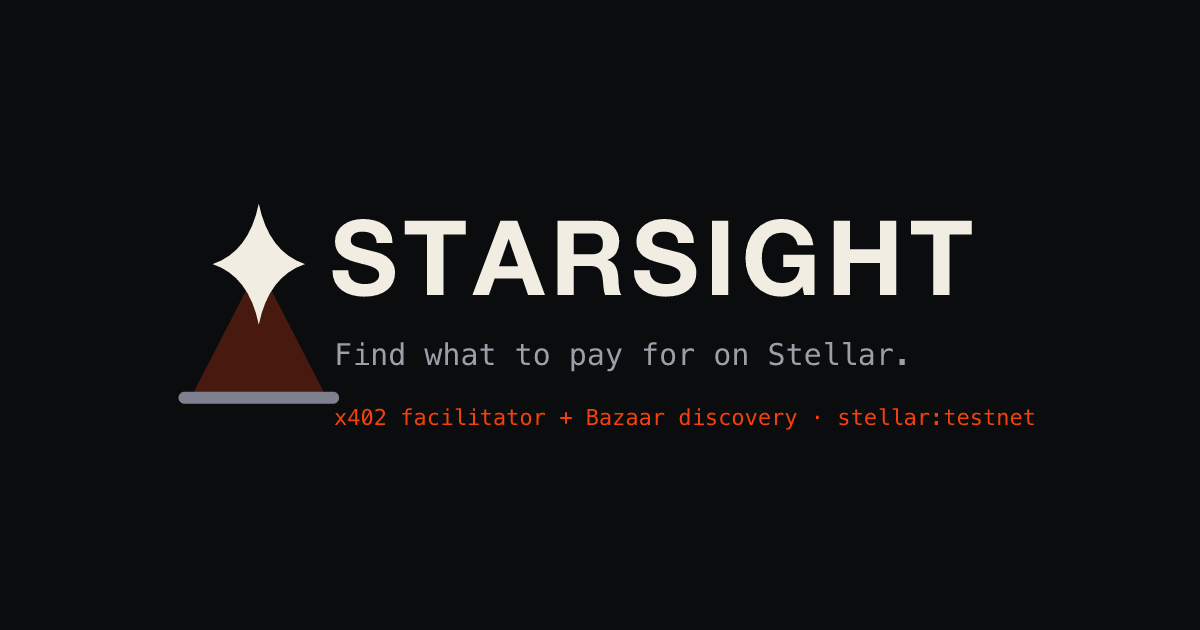
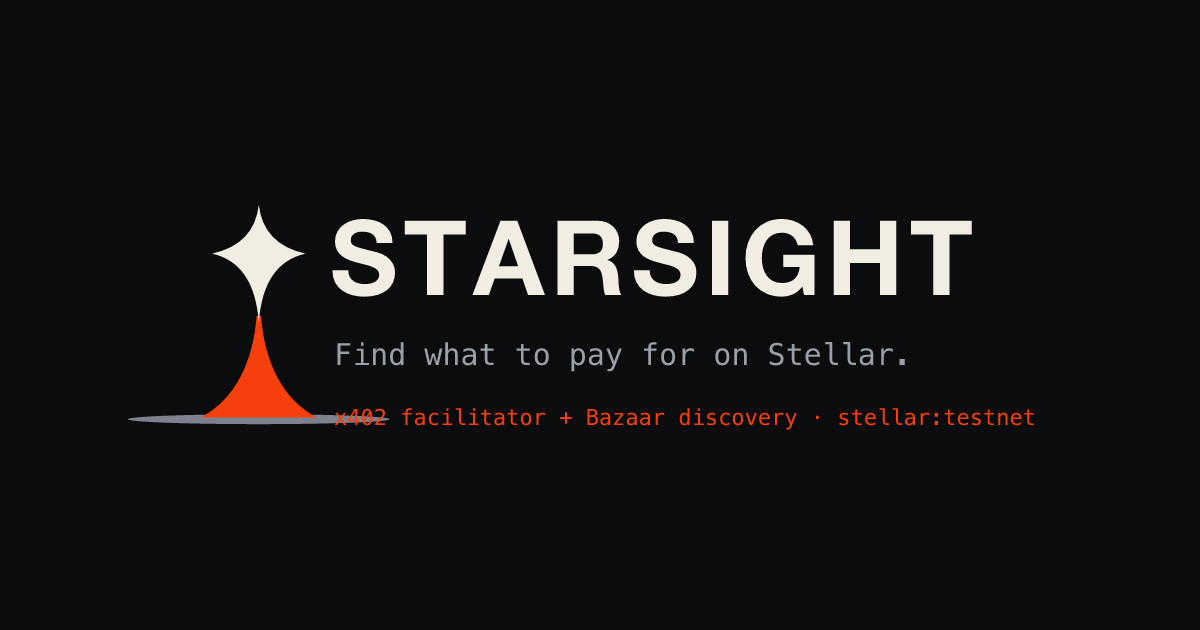
Redraw the mark faithfully to the chosen concept
The first attempt at this mark diverged from the design it was supposed to be
tracing, in four ways that together changed what it depicted. Corrected against
the reference:

  beam sides   straight  ->  concave, flaring like a bell
  beam fill    26%       ->  solid
  ground       a rail    ->  an ellipse of lit ground
  star         chunky    ->  tapered, lower point longer

The one that mattered is the waist. In the reference the star's lower point
narrows almost to nothing and the beam grows out of it, so the two read as a
single object — light leaving a star. Drawn as separate shapes stacked on top of
each other, which is what the first version did, it reads as a star sitting on a
traffic cone.

Three shapes, 396 bytes: the pool, the beam, the star, painted back to front.
Marks.tsx mirrors the same geometry inline and now carries a comment naming both
traps, since this is the second time the mark has been drawn and the concavity and
the waist are exactly what a redraw loses.

The favicon keeps its own reduced drawing, restated against the new star: at 16px
the ellipse is under a pixel tall and the beam collapses into the star, so the
star alone fills the canvas, in the accent rather than the cream because a tab
strip may be light or dark.

StarGlyph picks up the sharper concavity so the family reads, but stays vertically
symmetric where the mark's star is not — it sits on a text baseline beside
headings, and a long lower point would hang below it.
[…]

Changed region(s): [[0.1233, 0.3921, 0.3083, 0.6937]]

diff --git a/apps/web/src/components/Marks.tsx b/apps/web/src/components/Marks.tsx
@@ -2,35 +2,50 @@
  *  chrome never depends on an image file being present. */
 
 /**
- * The Starsight mark: a star high in the frame casting a cone of light down to
- * the ground it lights.
+ * The Starsight mark: a star casting a beam of light onto the ground it lights.
  *
- * Three shapes, in paint order — the beam first so the star sits on top of it,
- * then the star, then the rail it reaches. The beam is a flat shape at low
- * opacity rather than a gradient: a gradient needs `<defs>`, and an id in a
- * `<defs>` collides the moment two of these render on one page.
+ * Three shapes, painted back to front — the pool of light, the beam, then the
+ * star on top. Two details carry the whole thing and are easy to lose when
+ * redrawing it:
+ *
+ *  1. The beam's sides are CONCAVE, flaring like a bell. Straight sides turn it
+ *     into a traffic cone.
+ *  2. The star's lower point tapers into the beam's waist, so the two read as one
+ *     object — light leaving a star — rather than as two stacked shapes.
+ *
+ * The beam is solid rather than a gradient on purpose: a gradient needs `<defs>`,
+ * and an id inside `<defs>` collides the moment two marks render on one page.
  */
 export function StarsightMark({ size = 22 }: { size?: number }) {
   return (
     <svg className="glyph" width={size} height={size} viewBox="0 0 512 512" aria-hidden="true">
-      <path fill="var(--accent)" fillOpacity={0.26} d="M234 208 L134 402 L378 402 L278 208 Z" />
+      <ellipse cx="256" cy="444" rx="238" ry="9" fill="var(--fg-3)" />
+      <path
+        fill="var(--accent)"
+        d="M252 256 C 246 338 214 408 150 441 L 362 441 C 298 408 266 338 260 256 Z"
+      />
       <path
         fill="var(--cream)"
-        d="M256 52 Q 274 140 340 162 Q 274 184 256 272 Q 238 184 172 162 Q 238 140 256 52 Z"
+        d="M256 54 Q 264 126 341 143 Q 264 160 256 268 Q 248 160 171 143 Q 248 126 256 54 Z"
       />
-      <rect x="110" y="394" width="292" height="22" rx="11" fill="var(--fg-3)" />
     </svg>
   )
 }
 
-/** The four-pointed star on its own — section markers and bullets.
- *  Inherits currentColor so it recolors with its context. */
+/**
+ * The four-pointed star on its own — section markers and bullets.
+ * Inherits currentColor so it recolors with its context.
+ *
+ * It carries the mark's concavity so the family reads, but stays VERTICALLY
+ * SYMMETRIC where the mark's star is not: this one sits on a text baseline
+ * beside a heading, and the mark's long lower point would hang below it.
+ */
 export function StarGlyph({ size = 11 }: { size?: number }) {
   return (
     <svg className="glyph" width={size} height={size} viewBox="0 0 24 24" aria-hidden="true">
       <path
         fill="currentColor"
-        d="M12 1 Q 13.7 9.4 23 12 Q 13.7 14.6 12 23 Q 10.3 14.6 1 12 Q 10.3 9.4 12 1 Z"
+        d="M12 1 Q 13 10.25 23 12 Q 13 13.75 12 23 Q 11 13.75 1 12 Q 11 10.25 12 1 Z"
       />
     </svg>
   )
